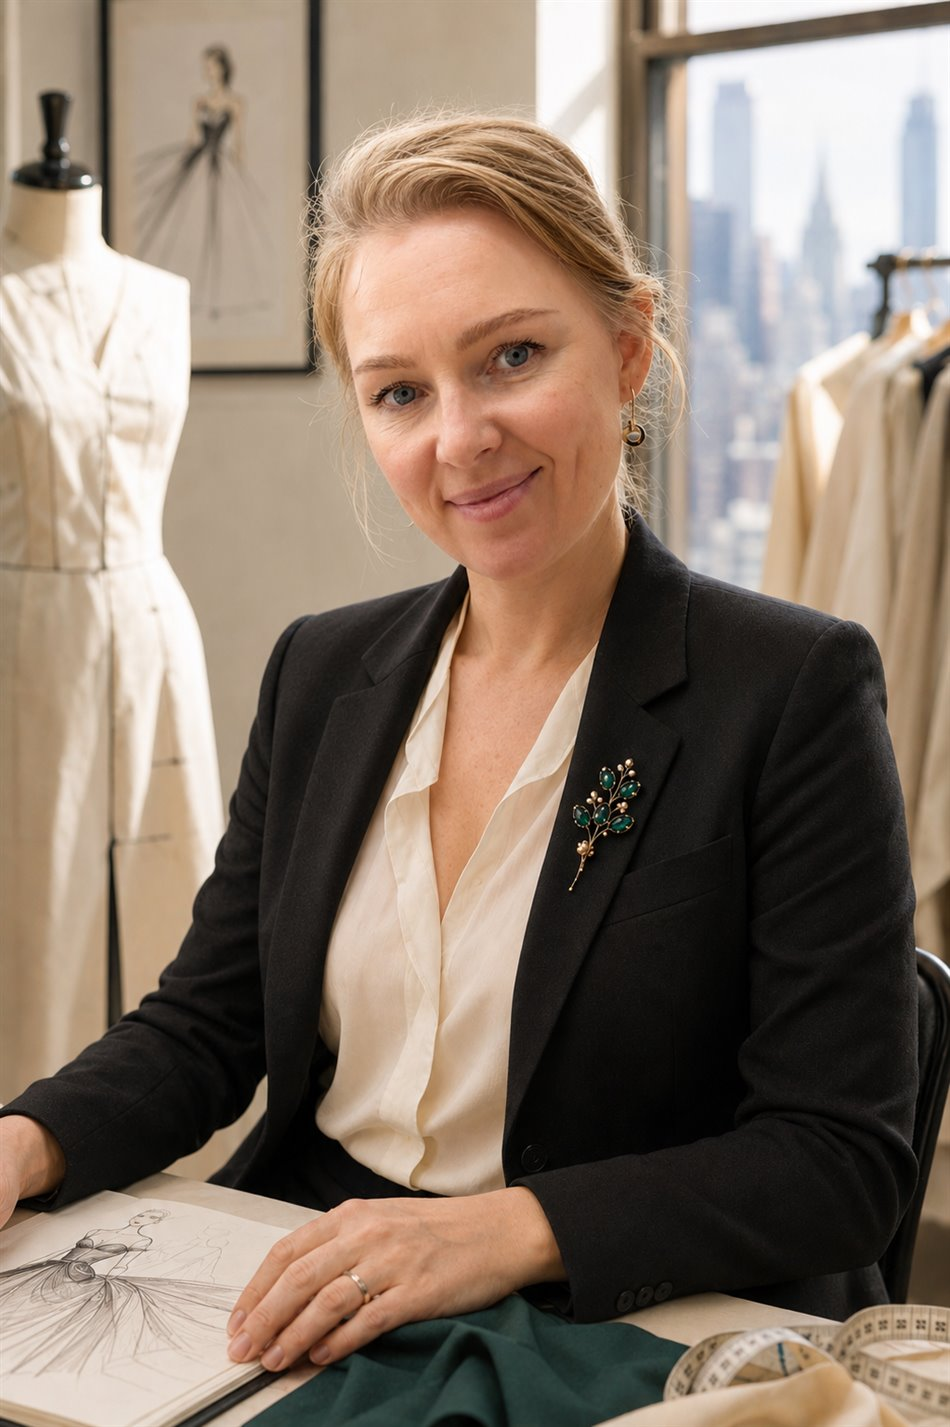
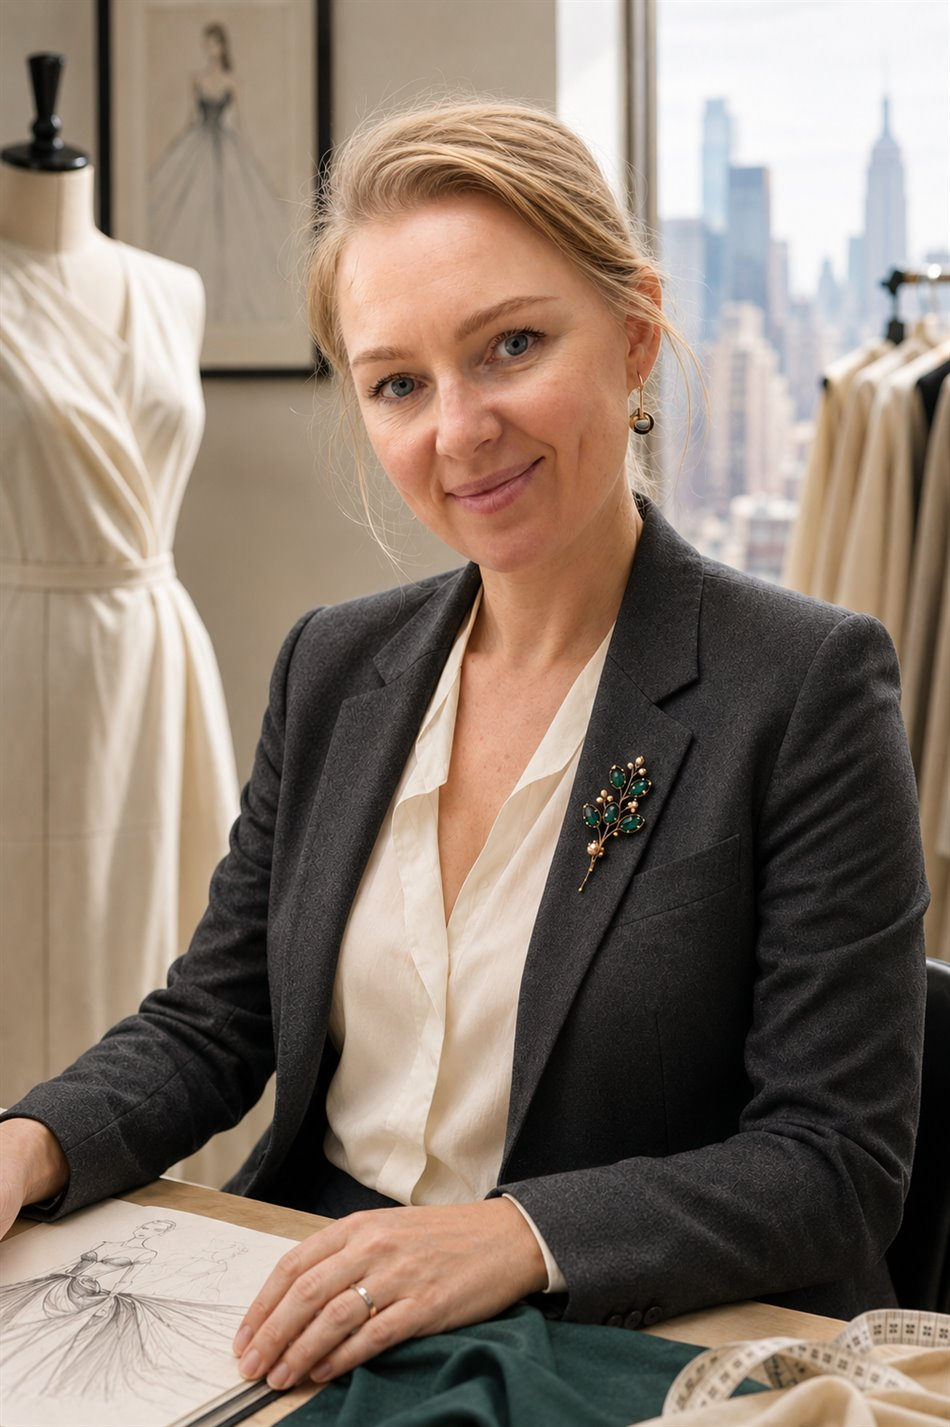
fix(nav): hamburger from 900px so tablet RU labels don't wrap; refresh Evgenia portrait
- move nav->hamburger switch to <=900px (iPad portrait); nowrap on links
  so 'О мастере' no longer breaks in the top bar
- updated portrait image

diff --git a/styles.css b/styles.css
@@ -50,7 +50,7 @@ h1,h2,h3,h4{font-family:var(--serif);font-weight:500;line-height:1.08;letter-spa
 .nav-logo img{height:52px;width:auto}
 .nav-menu{display:flex;gap:34px;align-items:center}
 .nav-menu a{font-size:.74rem;letter-spacing:.18em;text-transform:uppercase;color:var(--graphite);
-  font-weight:400;position:relative;padding:4px 0;transition:color .2s}
+  font-weight:400;position:relative;padding:4px 0;transition:color .2s;white-space:nowrap}
 .nav-menu a::after{content:'';position:absolute;left:0;right:100%;bottom:-2px;height:1px;
   background:var(--emerald);transition:right .25s ease}
 .nav-menu a:hover,.nav-menu a.active{color:var(--emerald)}
@@ -271,8 +271,7 @@ form.enquiry{background:var(--cream2);border:1px solid var(--line);padding:38px}
   .foot{grid-template-columns:1fr 1fr;gap:32px}
   .foot-brand{grid-column:1/-1}
 }
-@media(max-width:680px){
-  .wrap,.sec,.nav-inner,.hero,.foot{padding-left:22px;padding-right:22px}
+@media(max-width:900px){
   .nav{backdrop-filter:none;-webkit-backdrop-filter:none;background:var(--cream)}
   .nav-menu{position:fixed;top:0;bottom:0;right:0;width:min(82vw,320px);
     background:rgba(251,248,242,.82);backdrop-filter:blur(22px) saturate(1.2);-webkit-backdrop-filter:blur(22px) saturate(1.2);
@@ -280,10 +279,13 @@ form.enquiry{background:var(--cream2);border:1px solid var(--line);padding:38px}
     flex-direction:column;align-items:flex-start;justify-content:center;gap:22px;padding:92px 34px 40px;
     display:none;box-shadow:-24px 0 70px rgba(20,20,20,.16);overflow-y:auto}
   .nav-menu.open{display:flex}
-  .nav-menu a{font-size:.95rem}
+  .nav-menu a{font-size:.98rem;white-space:nowrap}
   .nav-burger{display:flex}
   .nav-cta.desktop{display:none}
   .nav-menu .nav-cta{display:inline-flex;white-space:normal;text-align:left;line-height:1.4;margin-top:6px}
+}
+@media(max-width:680px){
+  .wrap,.sec,.nav-inner,.hero,.foot{padding-left:22px;padding-right:22px}
   .sec{padding:64px 22px}
   .cta-band{padding:80px 22px}
   .values{grid-template-columns:1fr;gap:34px}